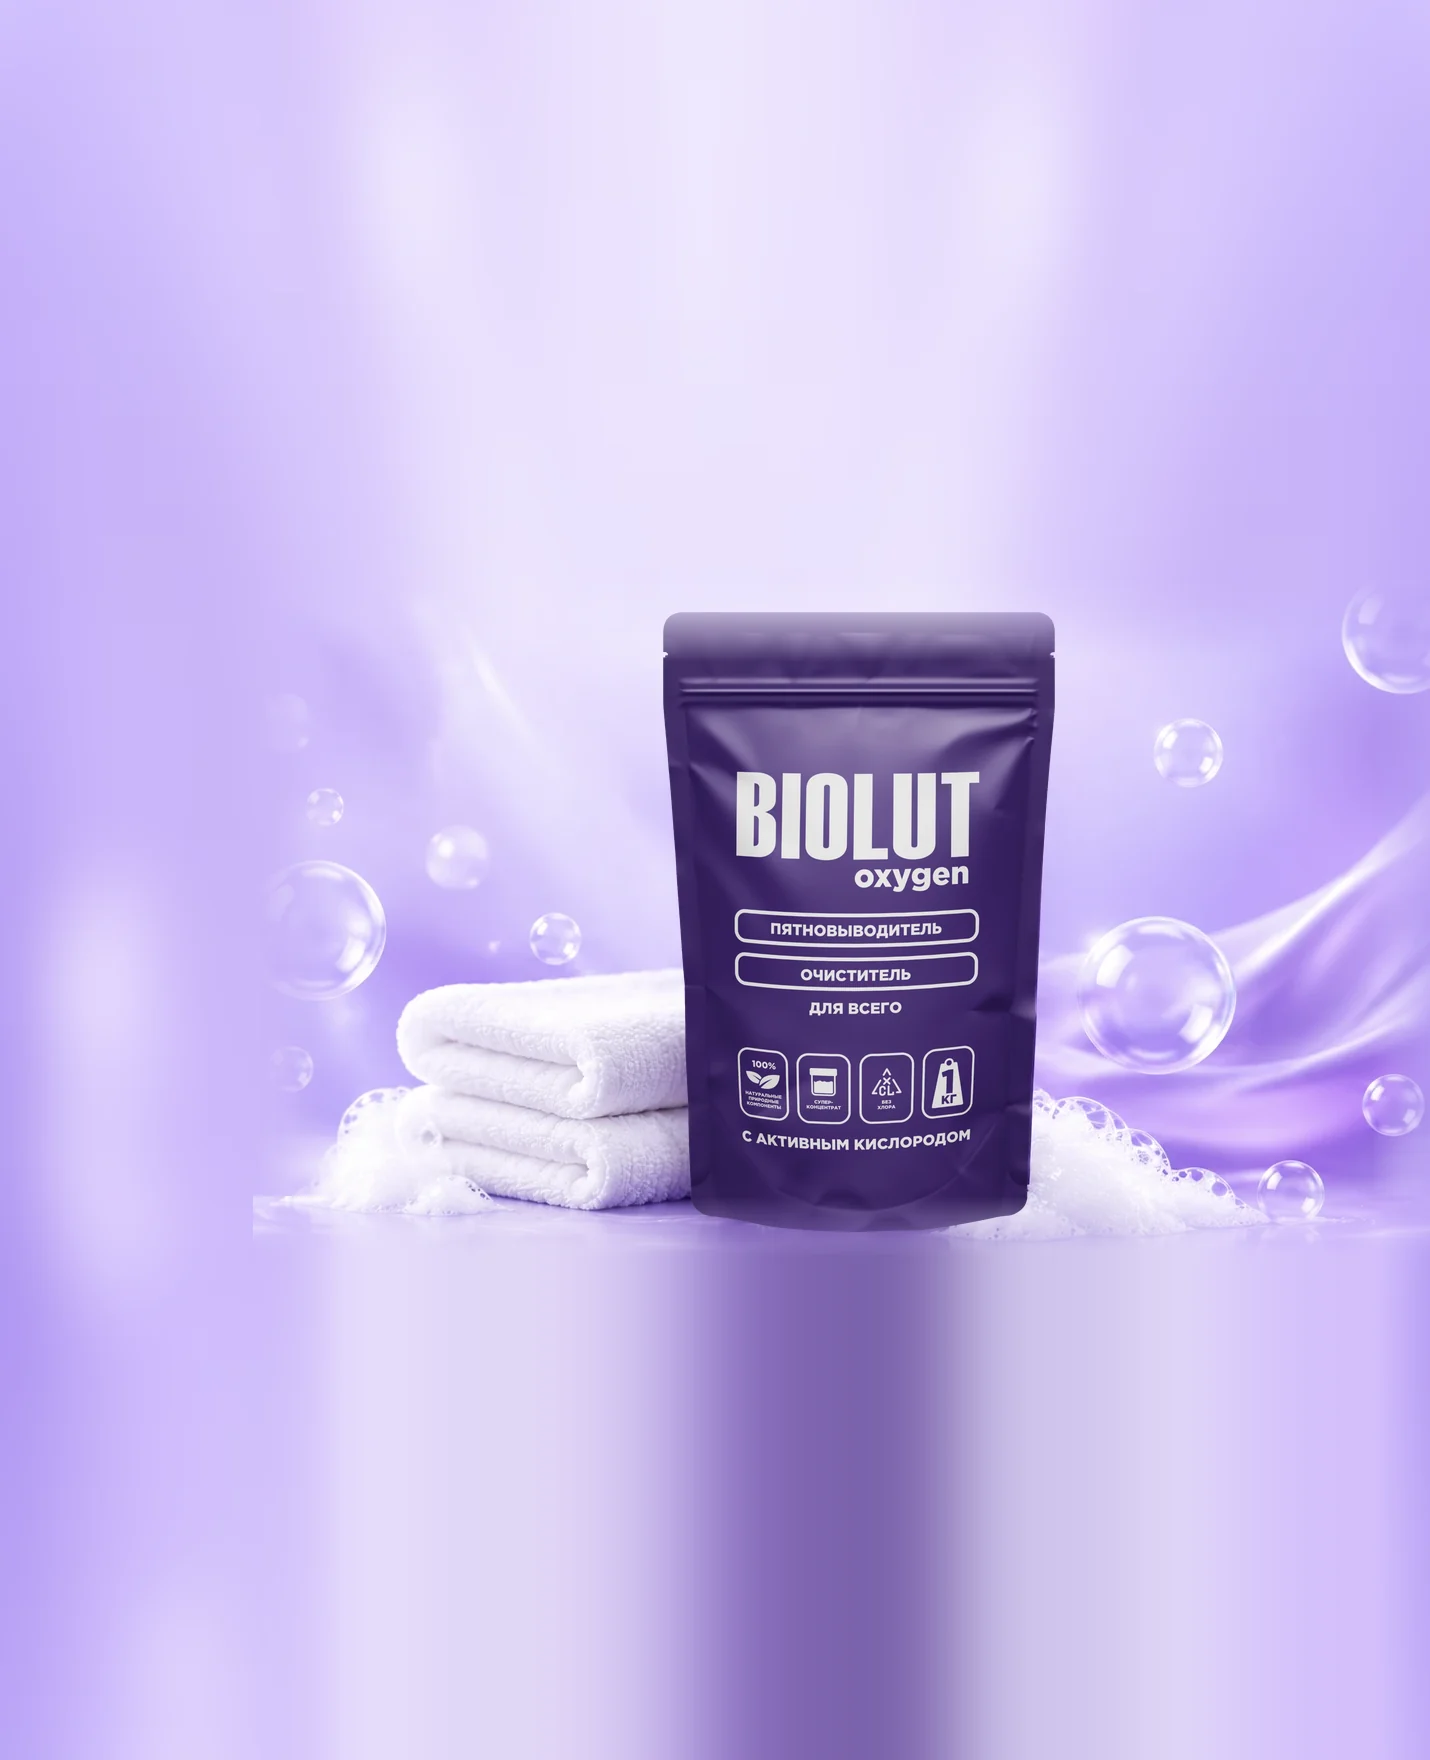
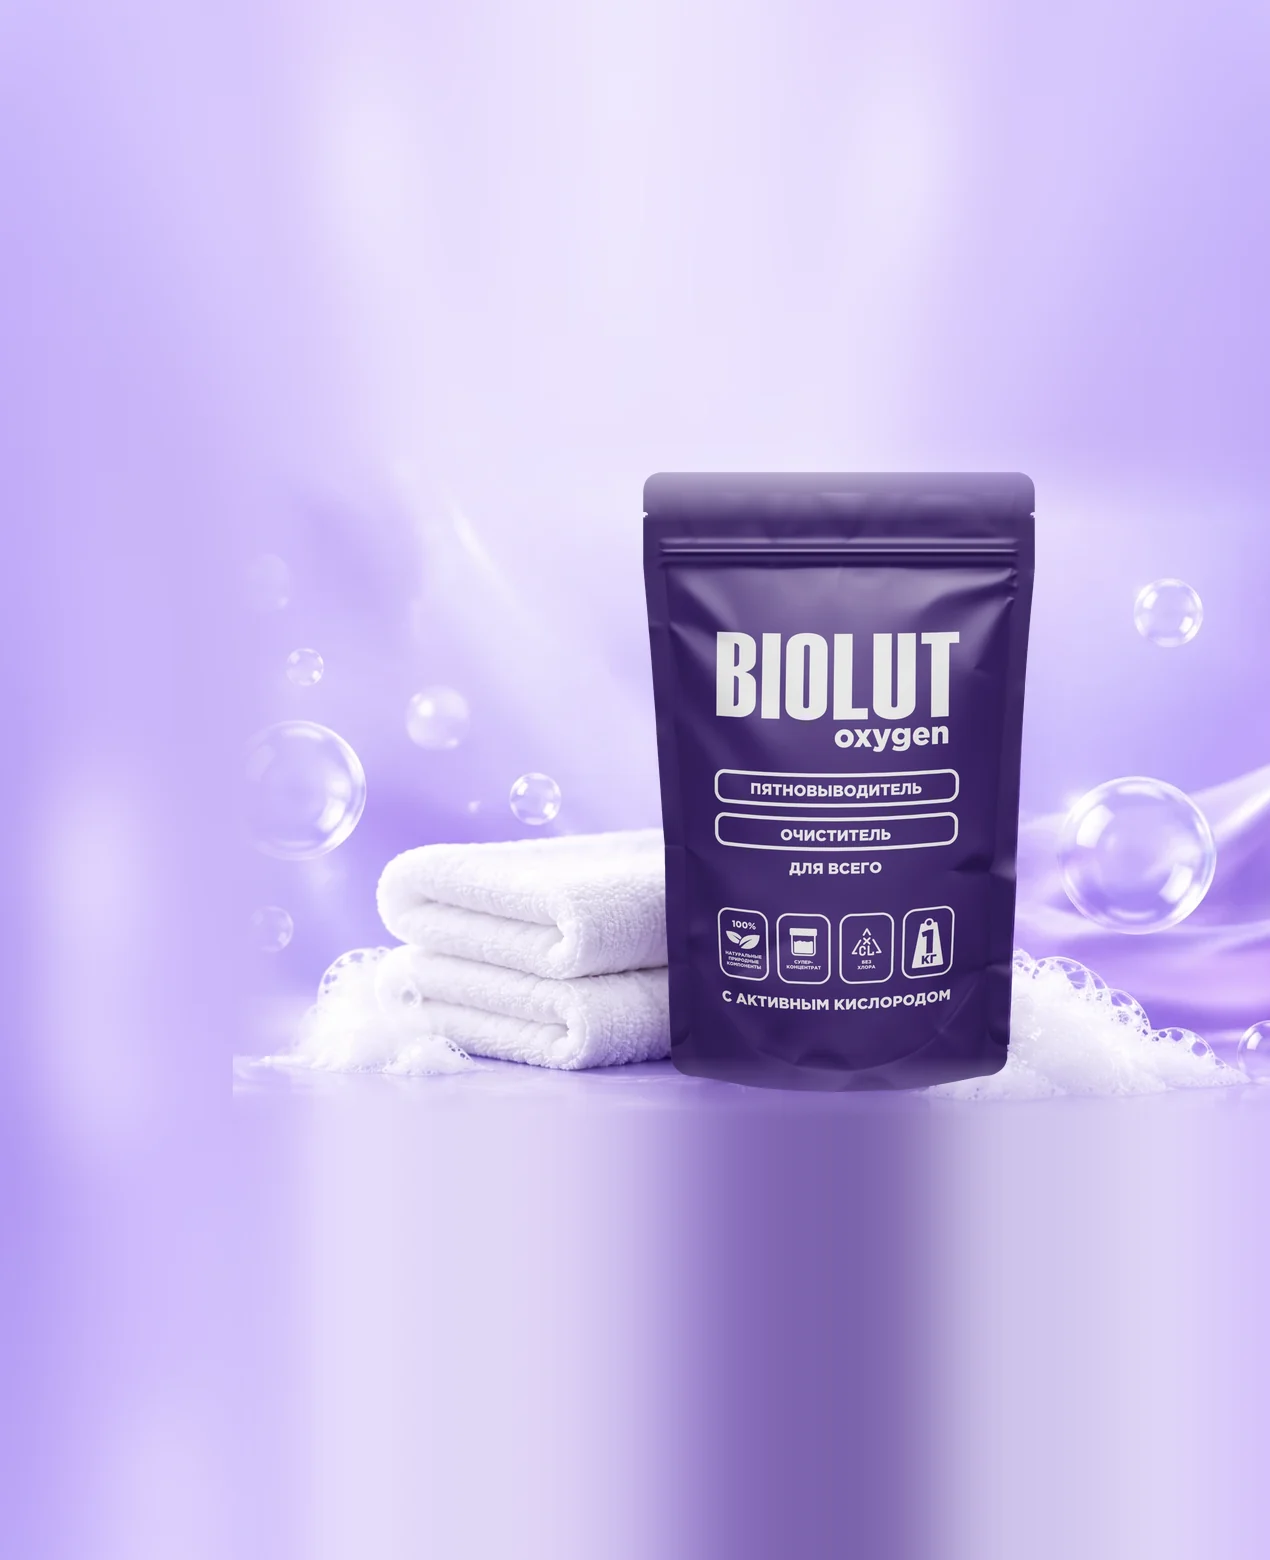
Карточка «Бытовая химия»: упаковка крупнее и правее
Claude-Session: https://claude.ai/code/session_01NrjMZLUvLXUEoWuvL9qRjd

diff --git a/v7/index.html b/v7/index.html
@@ -70,7 +70,7 @@
         <span class="cat__sub">Кремы, гели<br>и мыло</span>
         <span class="cat__go">Перейти <svg class="arrow" aria-hidden="true"><use href="#arrow"/></svg></span>
       </a>
-      <a class="cat cat--biolut cat--photo" href="catalog.html?cat=bytovaya-himiya" style="--photo: url(../assets/products/cat-himiya.webp)">
+      <a class="cat cat--biolut cat--photo" href="catalog.html?cat=bytovaya-himiya" style="--photo: url(../assets/products/cat-himiya.webp?v=2)">
         <span class="cat__title">Бытовая<br>химия</span>
         <span class="cat__sub">Стирка, посуда<br>и уборка</span>
         <span class="cat__go">Перейти <svg class="arrow" aria-hidden="true"><use href="#arrow"/></svg></span>
